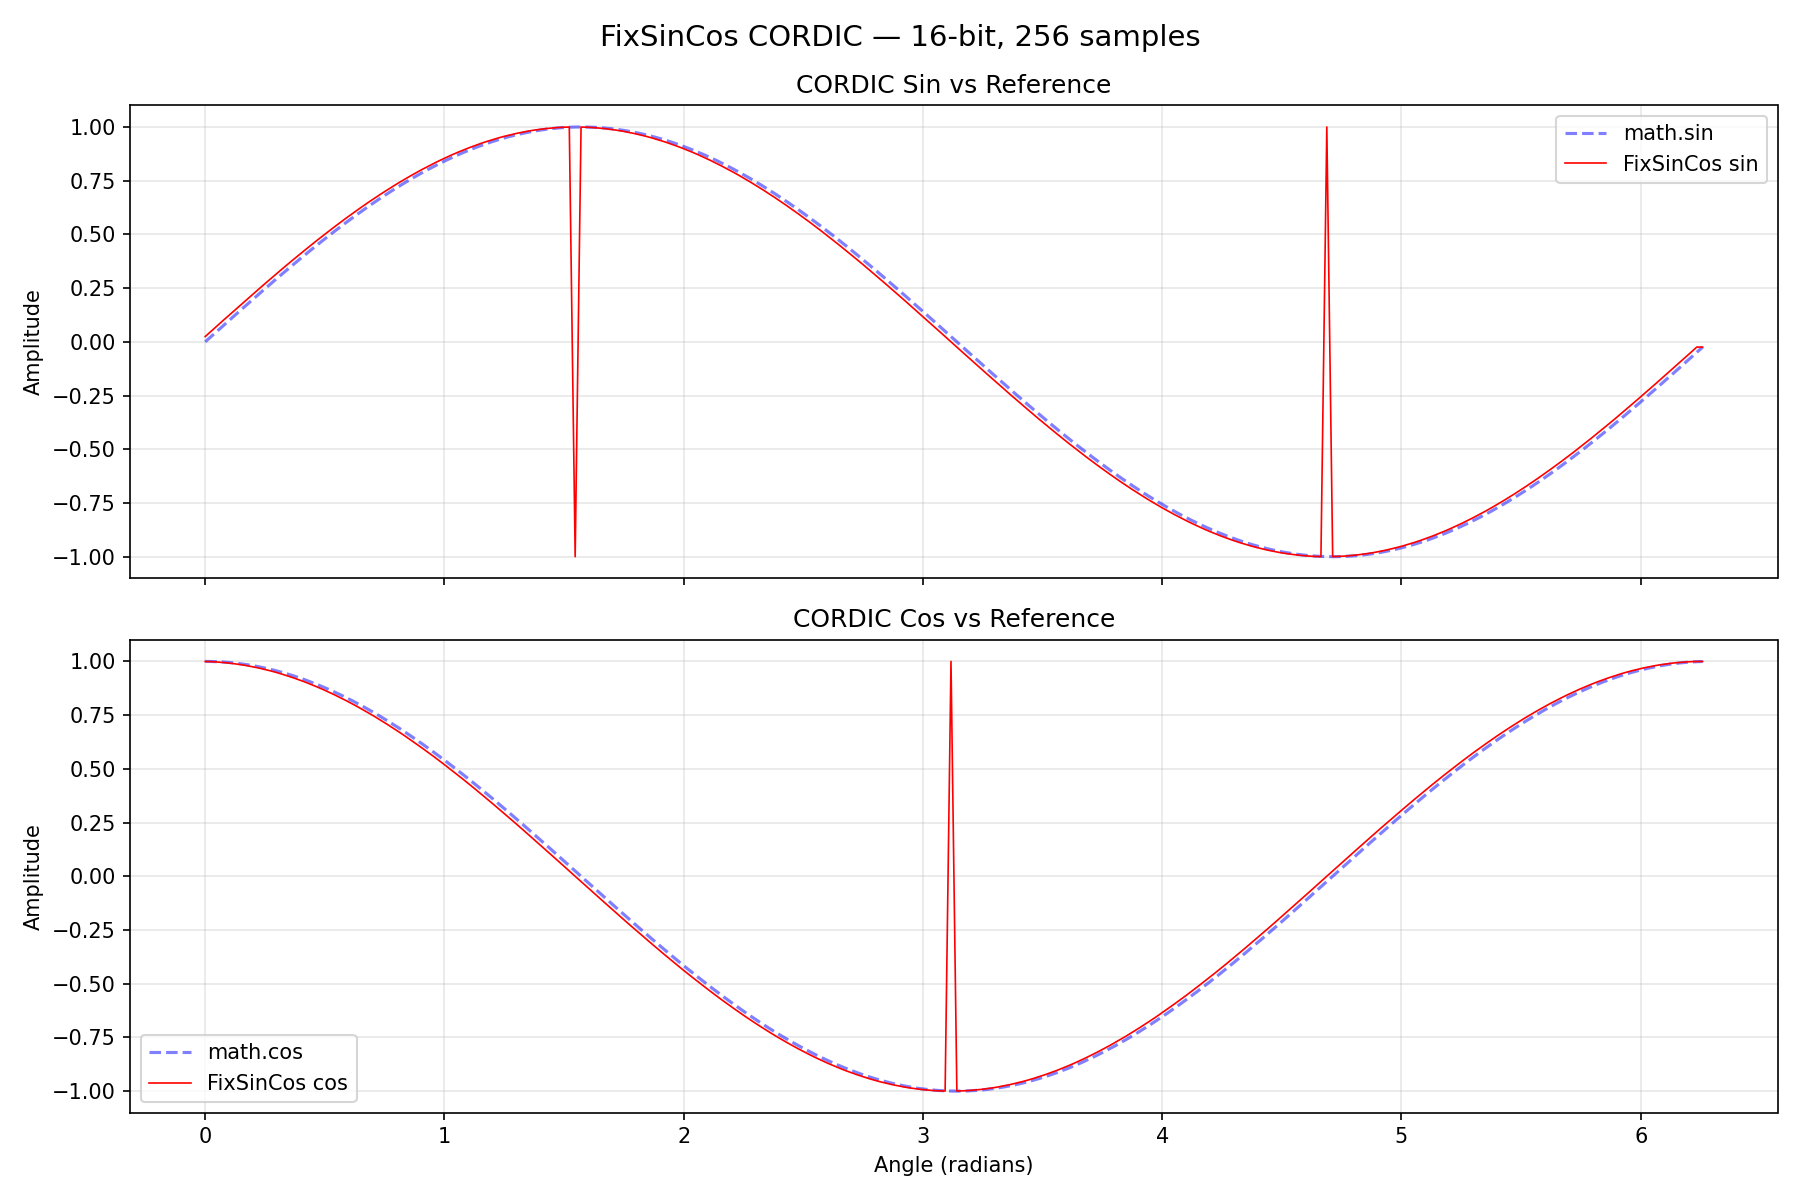
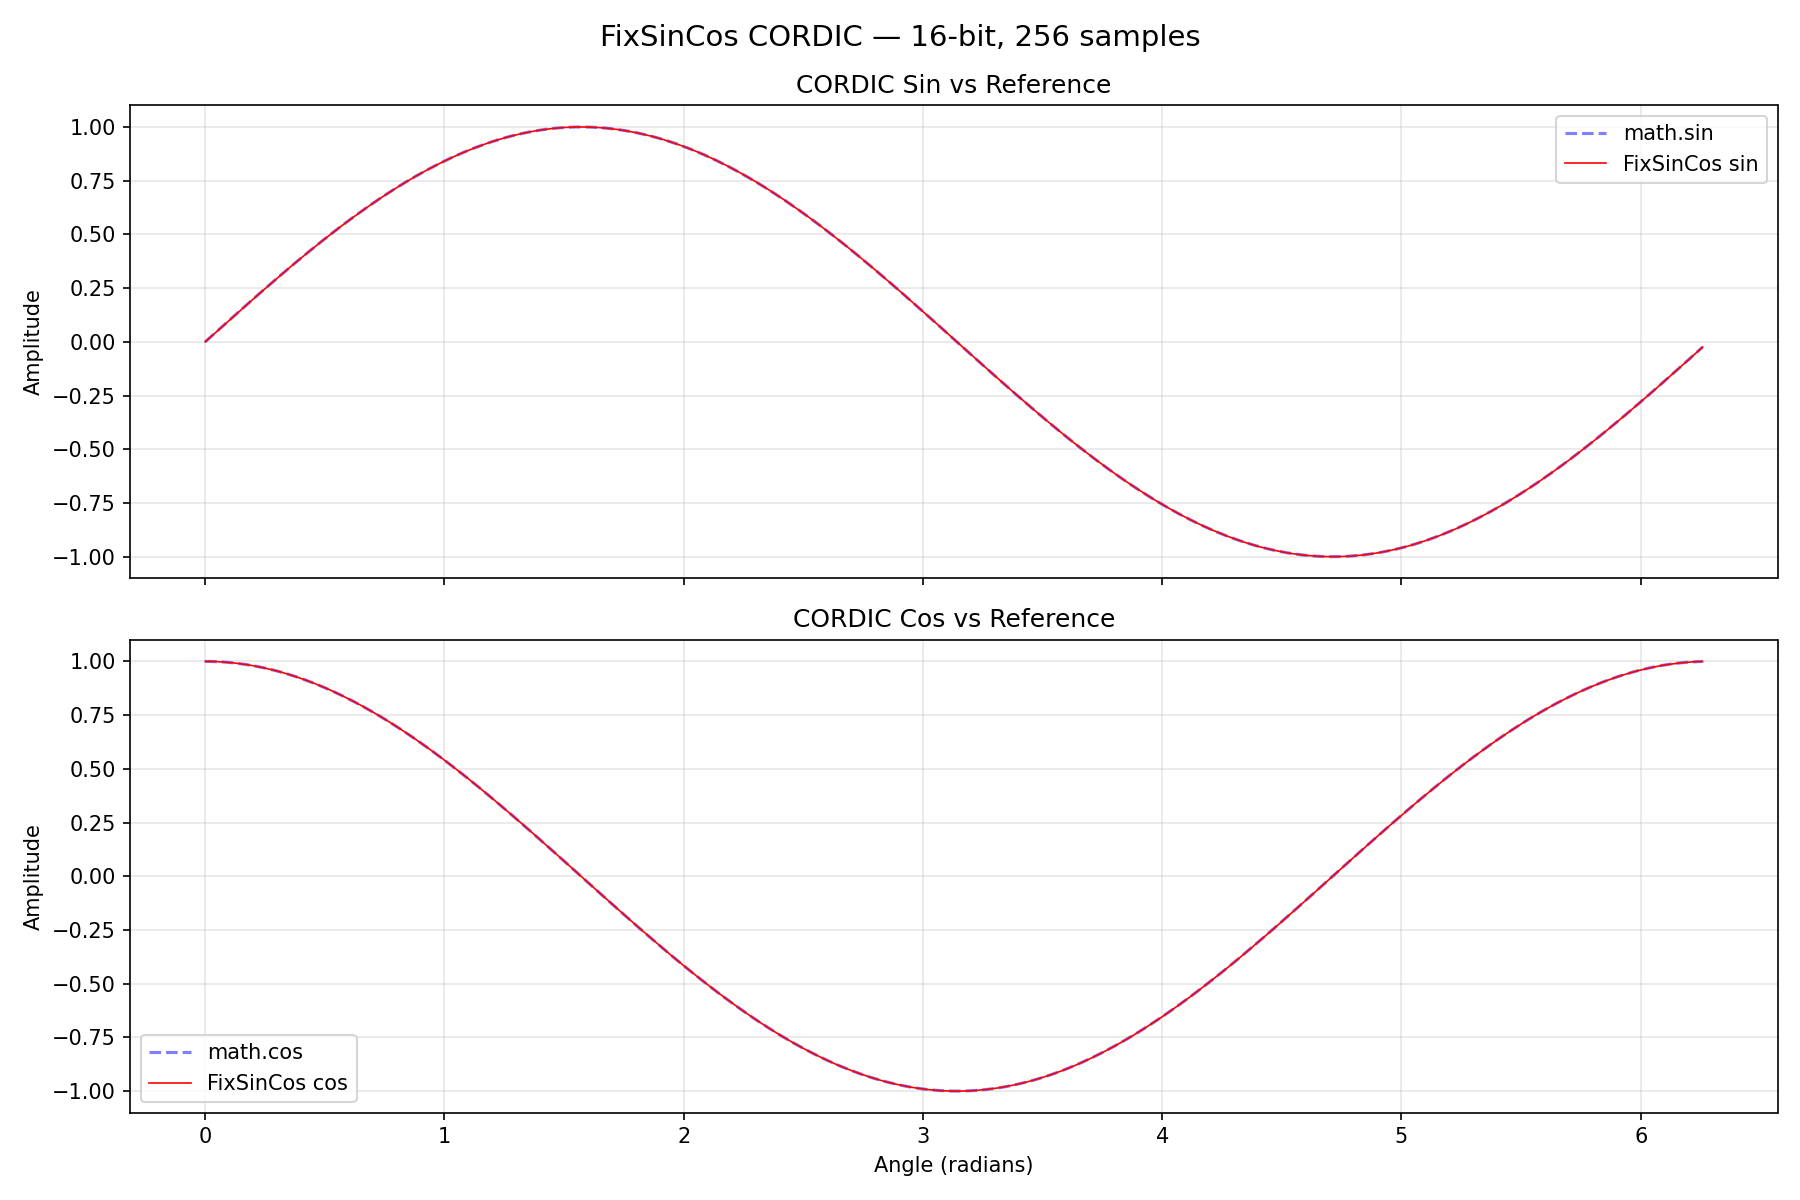
Fix quadrant boundary holes in sinusoide example

diff --git a/examples/sinusoide.py b/examples/sinusoide.py
@@ -26,41 +26,36 @@ dut = FixSinCos(width=WIDTH, iterations=WIDTH)
 sin_values = []
 cos_values = []
 quadrants = []  # store quadrant per sample so we can fix signs after
+reduced_angles = []  # store reduced angle for overflow detection
 
 sim = Simulator(dut)
 sim.add_clock(1e-6)
 
 
 async def testbench(ctx):
-    latency = dut.latency
+    # The CORDIC pipeline has iterations+2 sync stages, but from the
+    # testbench perspective (set before tick, read after tick) the
+    # effective read delay is iterations+1 ticks.
+    effective_latency = dut.latency - 1
 
-    for i in range(N_SAMPLES + latency + 2):
+    for i in range(N_SAMPLES + effective_latency + 2):
         if i < N_SAMPLES:
             # Full-range angle: i/N * full_circle
             angle_full = int(i / N_SAMPLES * (1 << WIDTH)) & ((1 << WIDTH) - 1)
 
             # Quadrant reduction: map into [0, π/2)
+            # Subtract quadrant start so reduced is always in [0, QUARTER).
             quadrant = (angle_full // QUARTER) % 4
             quadrants.append(quadrant)
-
-            if quadrant == 0:
-                reduced = angle_full
-            elif quadrant == 1:
-                # π/2..π  → reflect: π - θ  (i.e., HALF - angle)
-                reduced = 2 * QUARTER - angle_full
-            elif quadrant == 2:
-                # π..3π/2 → θ - π
-                reduced = angle_full - 2 * QUARTER
-            else:
-                # 3π/2..2π → 2π - θ
-                reduced = 4 * QUARTER - angle_full
+            reduced = angle_full - quadrant * QUARTER
+            reduced_angles.append(reduced)
 
             reduced = reduced & ((1 << WIDTH) - 1)
             ctx.set(dut.angle, reduced)
 
         await ctx.tick()
 
-        if i >= latency:
+        if i >= effective_latency:
             sin_raw = ctx.get(dut.sin_out)
             cos_raw = ctx.get(dut.cos_out)
             # Interpret as signed
@@ -81,22 +76,41 @@ with sim.write_vcd("examples/sinusoide.vcd", "examples/sinusoide.gtkw"):
 sin_values = sin_values[:N_SAMPLES]
 cos_values = cos_values[:N_SAMPLES]
 
-# Apply quadrant correction to collected outputs
+# Apply quadrant correction to collected outputs.
+# With subtraction-based reduction (reduced = θ - Q*π/2), the CORDIC
+# computes sin(reduced) and cos(reduced) where reduced ∈ [0, π/2).
+# We reconstruct the full-range sin/cos using:
+#   Q0: sin(θ) = sin(r),          cos(θ) = cos(r)
+#   Q1: sin(θ) = cos(r),          cos(θ) = -sin(r)
+#   Q2: sin(θ) = -sin(r),         cos(θ) = -cos(r)
+#   Q3: sin(θ) = -cos(r),         cos(θ) = sin(r)
+#
+# Note: the CORDIC output is in Q0.15 format which cannot represent +1.0
+# exactly (max is +0.99997). For reduced ≈ 0, cos(0) ≈ 1.0 overflows to
+# ≈ -1.0 in the 16-bit signed output. We detect and clamp this.
+MAX_POS = ((1 << (WIDTH - 1)) - 1) / (1 << (WIDTH - 1))  # ~0.99997
+
 for idx in range(N_SAMPLES):
     q = quadrants[idx]
     s, c = sin_values[idx], cos_values[idx]
+
+    # Fix Q0.15 overflow: for very small reduced angles, cos(r) ≈ 1.0
+    # wraps to ≈ -1.0. Detect and clamp.
+    if reduced_angles[idx] < QUARTER // 64 and c < -0.9:
+        c = MAX_POS
+
     if q == 0:
-        pass  # sin(θ), cos(θ) — correct as-is
+        sin_values[idx] = s
+        cos_values[idx] = c
     elif q == 1:
-        # sin(π-θ) = sin(θ),  cos(π-θ) = -cos(θ)
-        cos_values[idx] = -c
+        sin_values[idx] = c
+        cos_values[idx] = -s
     elif q == 2:
-        # sin(π+θ) = -sin(θ), cos(π+θ) = -cos(θ)
         sin_values[idx] = -s
         cos_values[idx] = -c
     elif q == 3:
-        # sin(2π-θ) = -sin(θ), cos(2π-θ) = cos(θ)
-        sin_values[idx] = -s
+        sin_values[idx] = -c
+        cos_values[idx] = s
 
 # Reference
 ref_angles = [i / N_SAMPLES * 2 * math.pi for i in range(N_SAMPLES)]
@@ -125,4 +139,3 @@ fig.suptitle(f"FixSinCos CORDIC — {WIDTH}-bit, {N_SAMPLES} samples", fontsize=
 fig.tight_layout()
 plt.savefig("examples/sinusoide.png", dpi=150)
 print("Saved examples/sinusoide.png")
-
